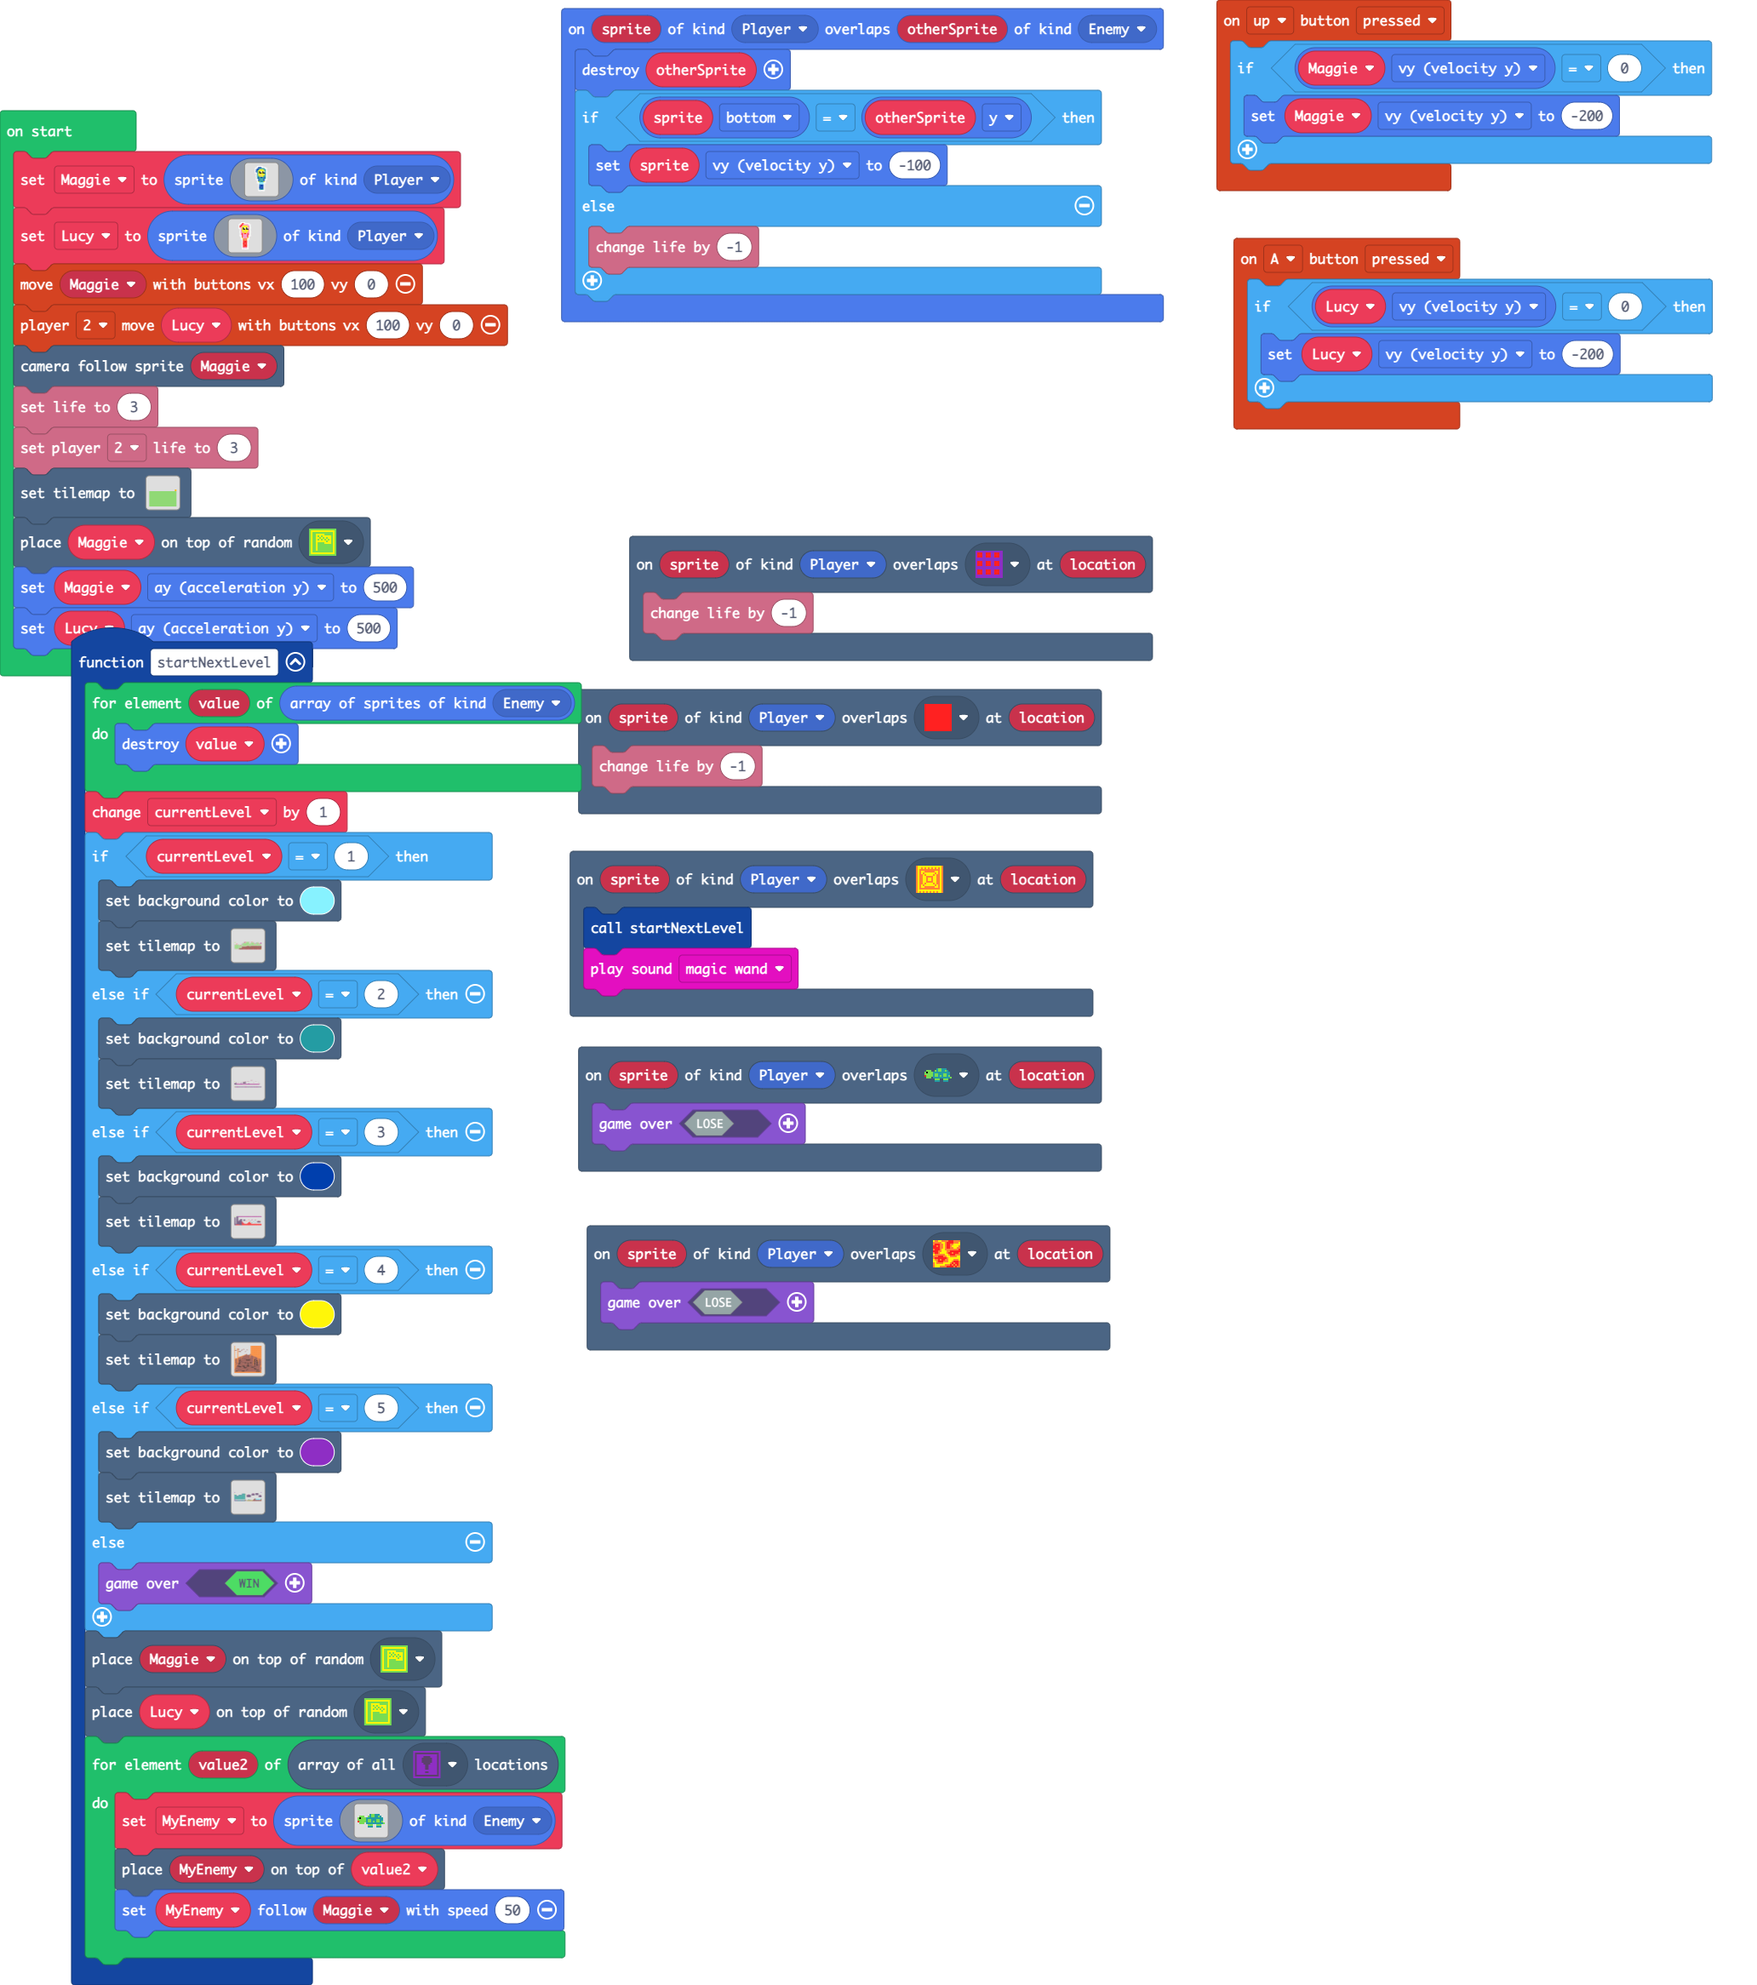
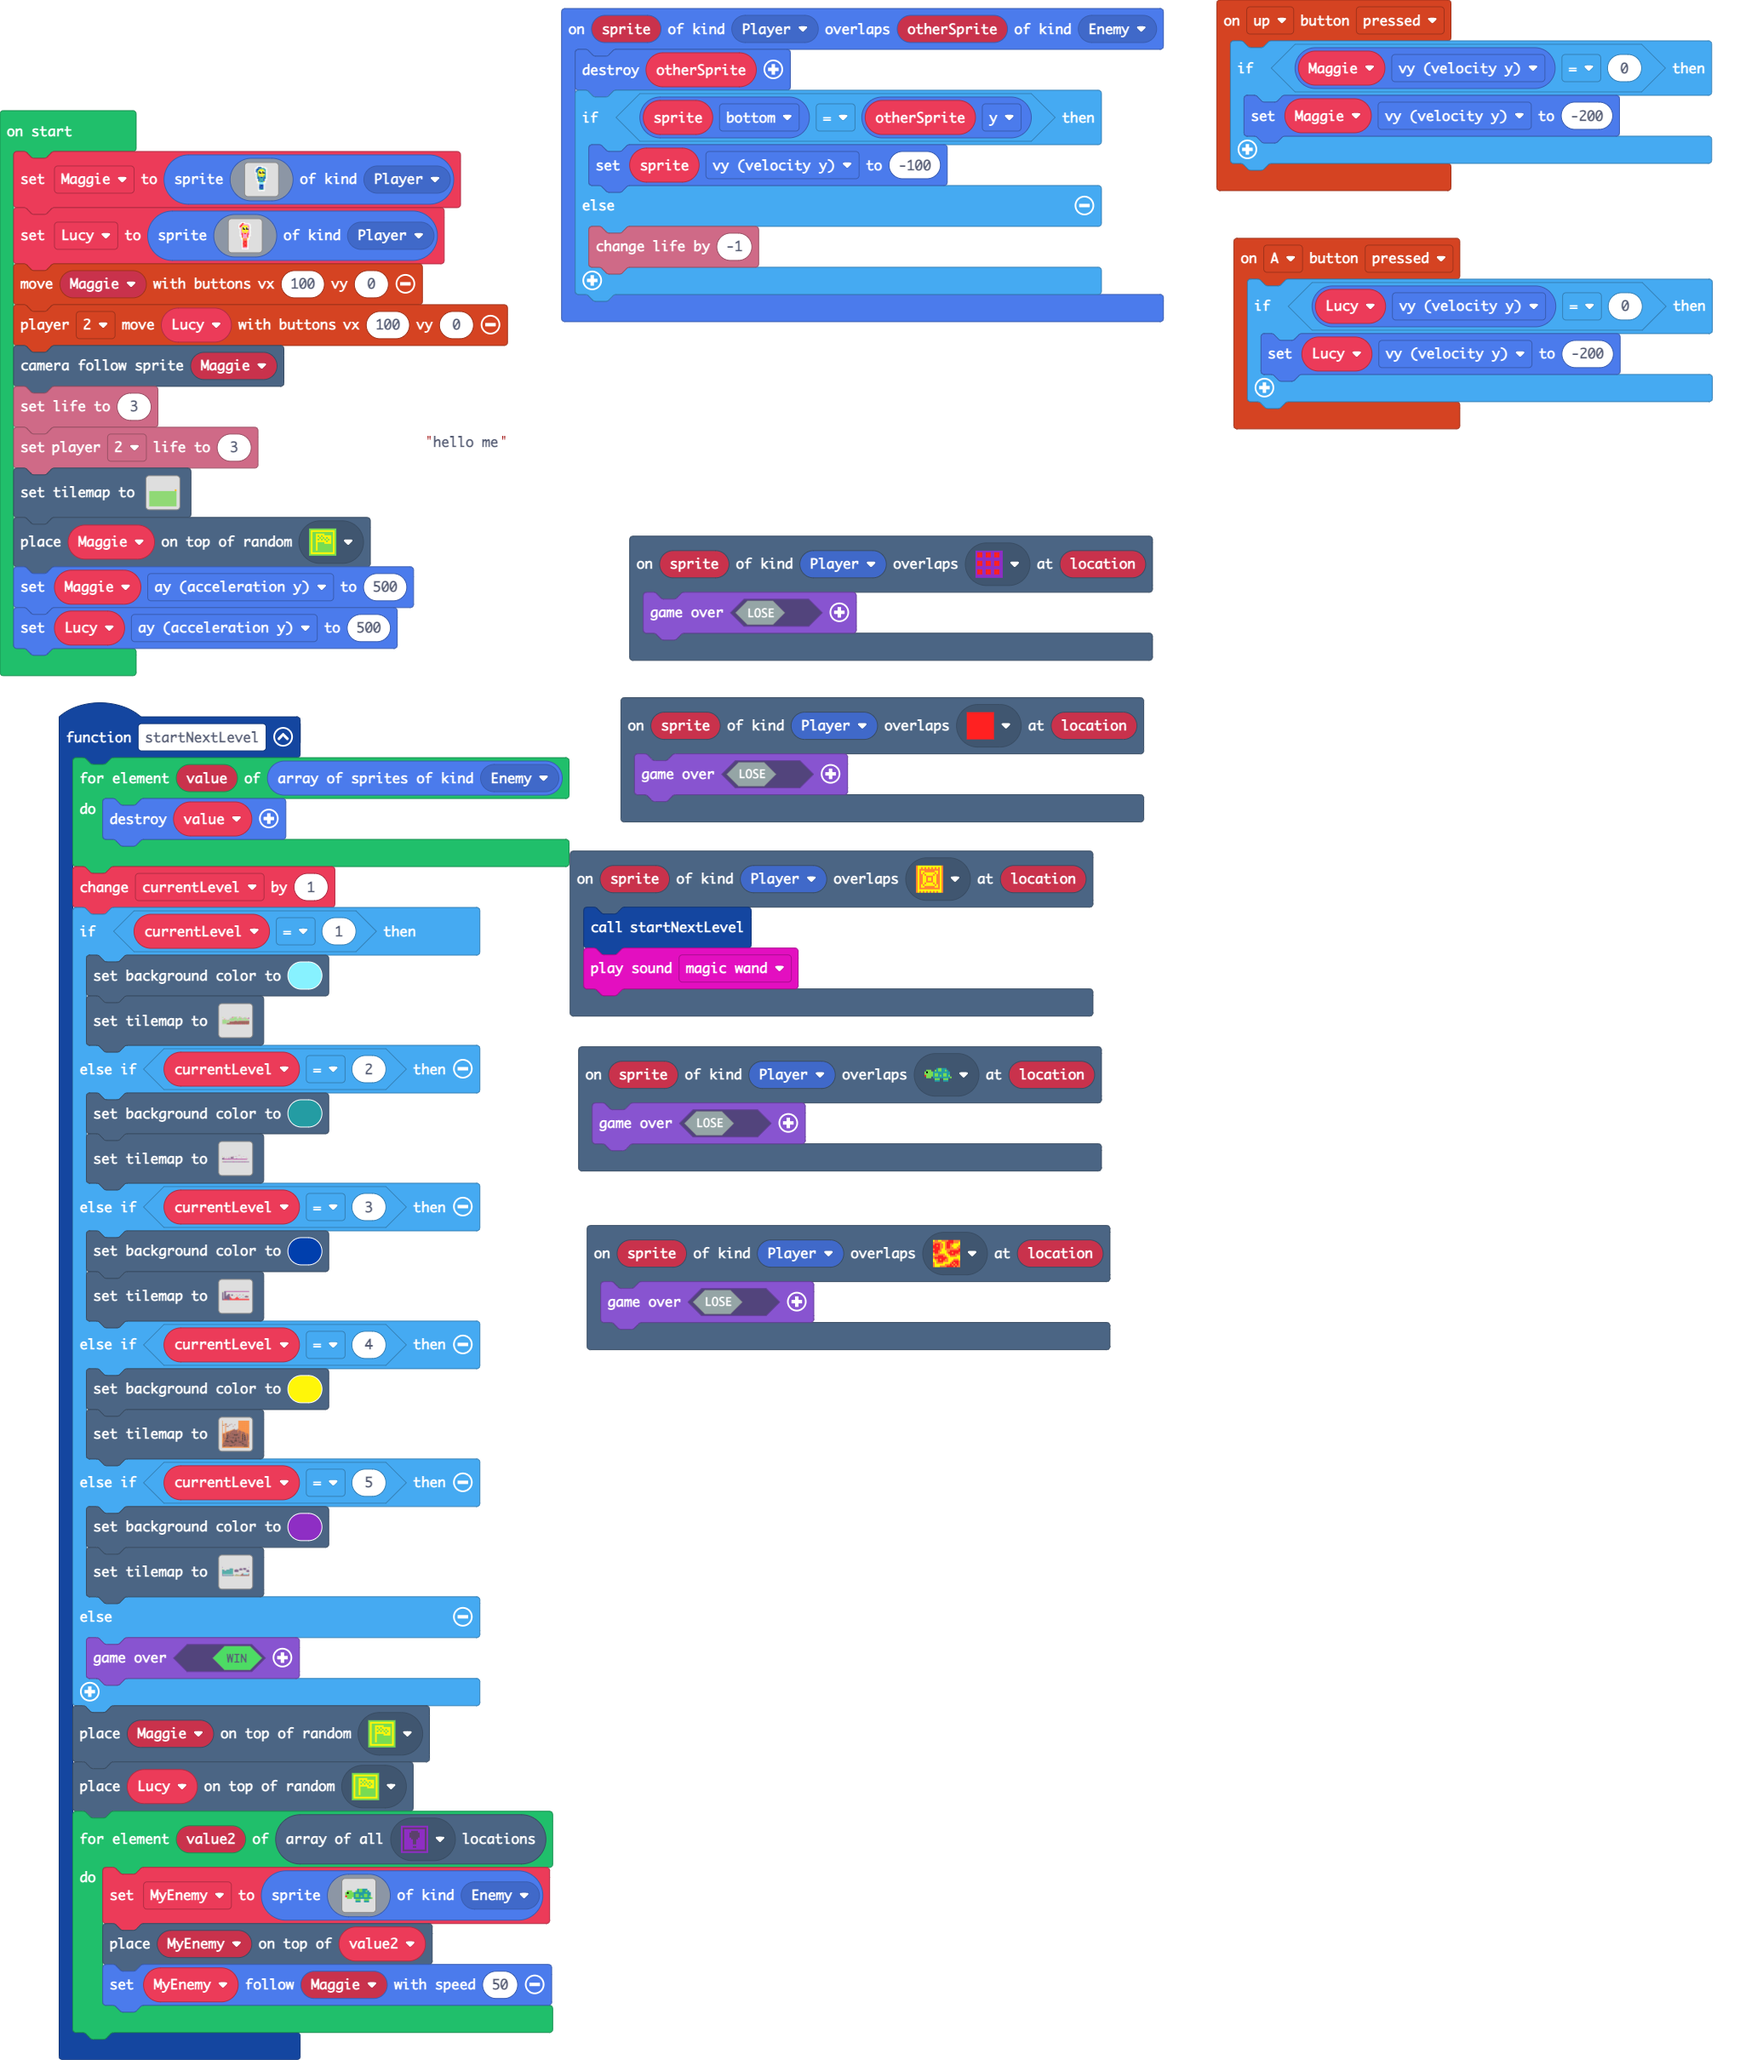
Update main.blocks, main.ts

Changed region(s): [[0.0, 0.0, 0.6822, 1.0], [0.6822, 0.0, 0.9922, 0.2161]]

diff --git a/main.ts b/main.ts
@@ -3,7 +3,7 @@ namespace SpriteKind {
     export const LUCY = SpriteKind.create()
 }
 scene.onOverlapTile(SpriteKind.Player, assets.tile`myTile1`, function (sprite, location) {
-    info.changeLifeBy(-1)
+    game.over(false)
 })
 controller.up.onEvent(ControllerButtonEvent.Pressed, function () {
     if (Maggie.vy == 0) {
@@ -54,7 +54,7 @@ scene.onOverlapTile(SpriteKind.Player, sprites.dungeon.hazardLava1, function (sp
     game.over(false)
 })
 scene.onOverlapTile(SpriteKind.Player, assets.tile`myTile2`, function (sprite, location) {
-    info.changeLifeBy(-1)
+    game.over(false)
 })
 scene.onOverlapTile(SpriteKind.Player, assets.tile`myTile5`, function (sprite, location) {
     game.over(false)
